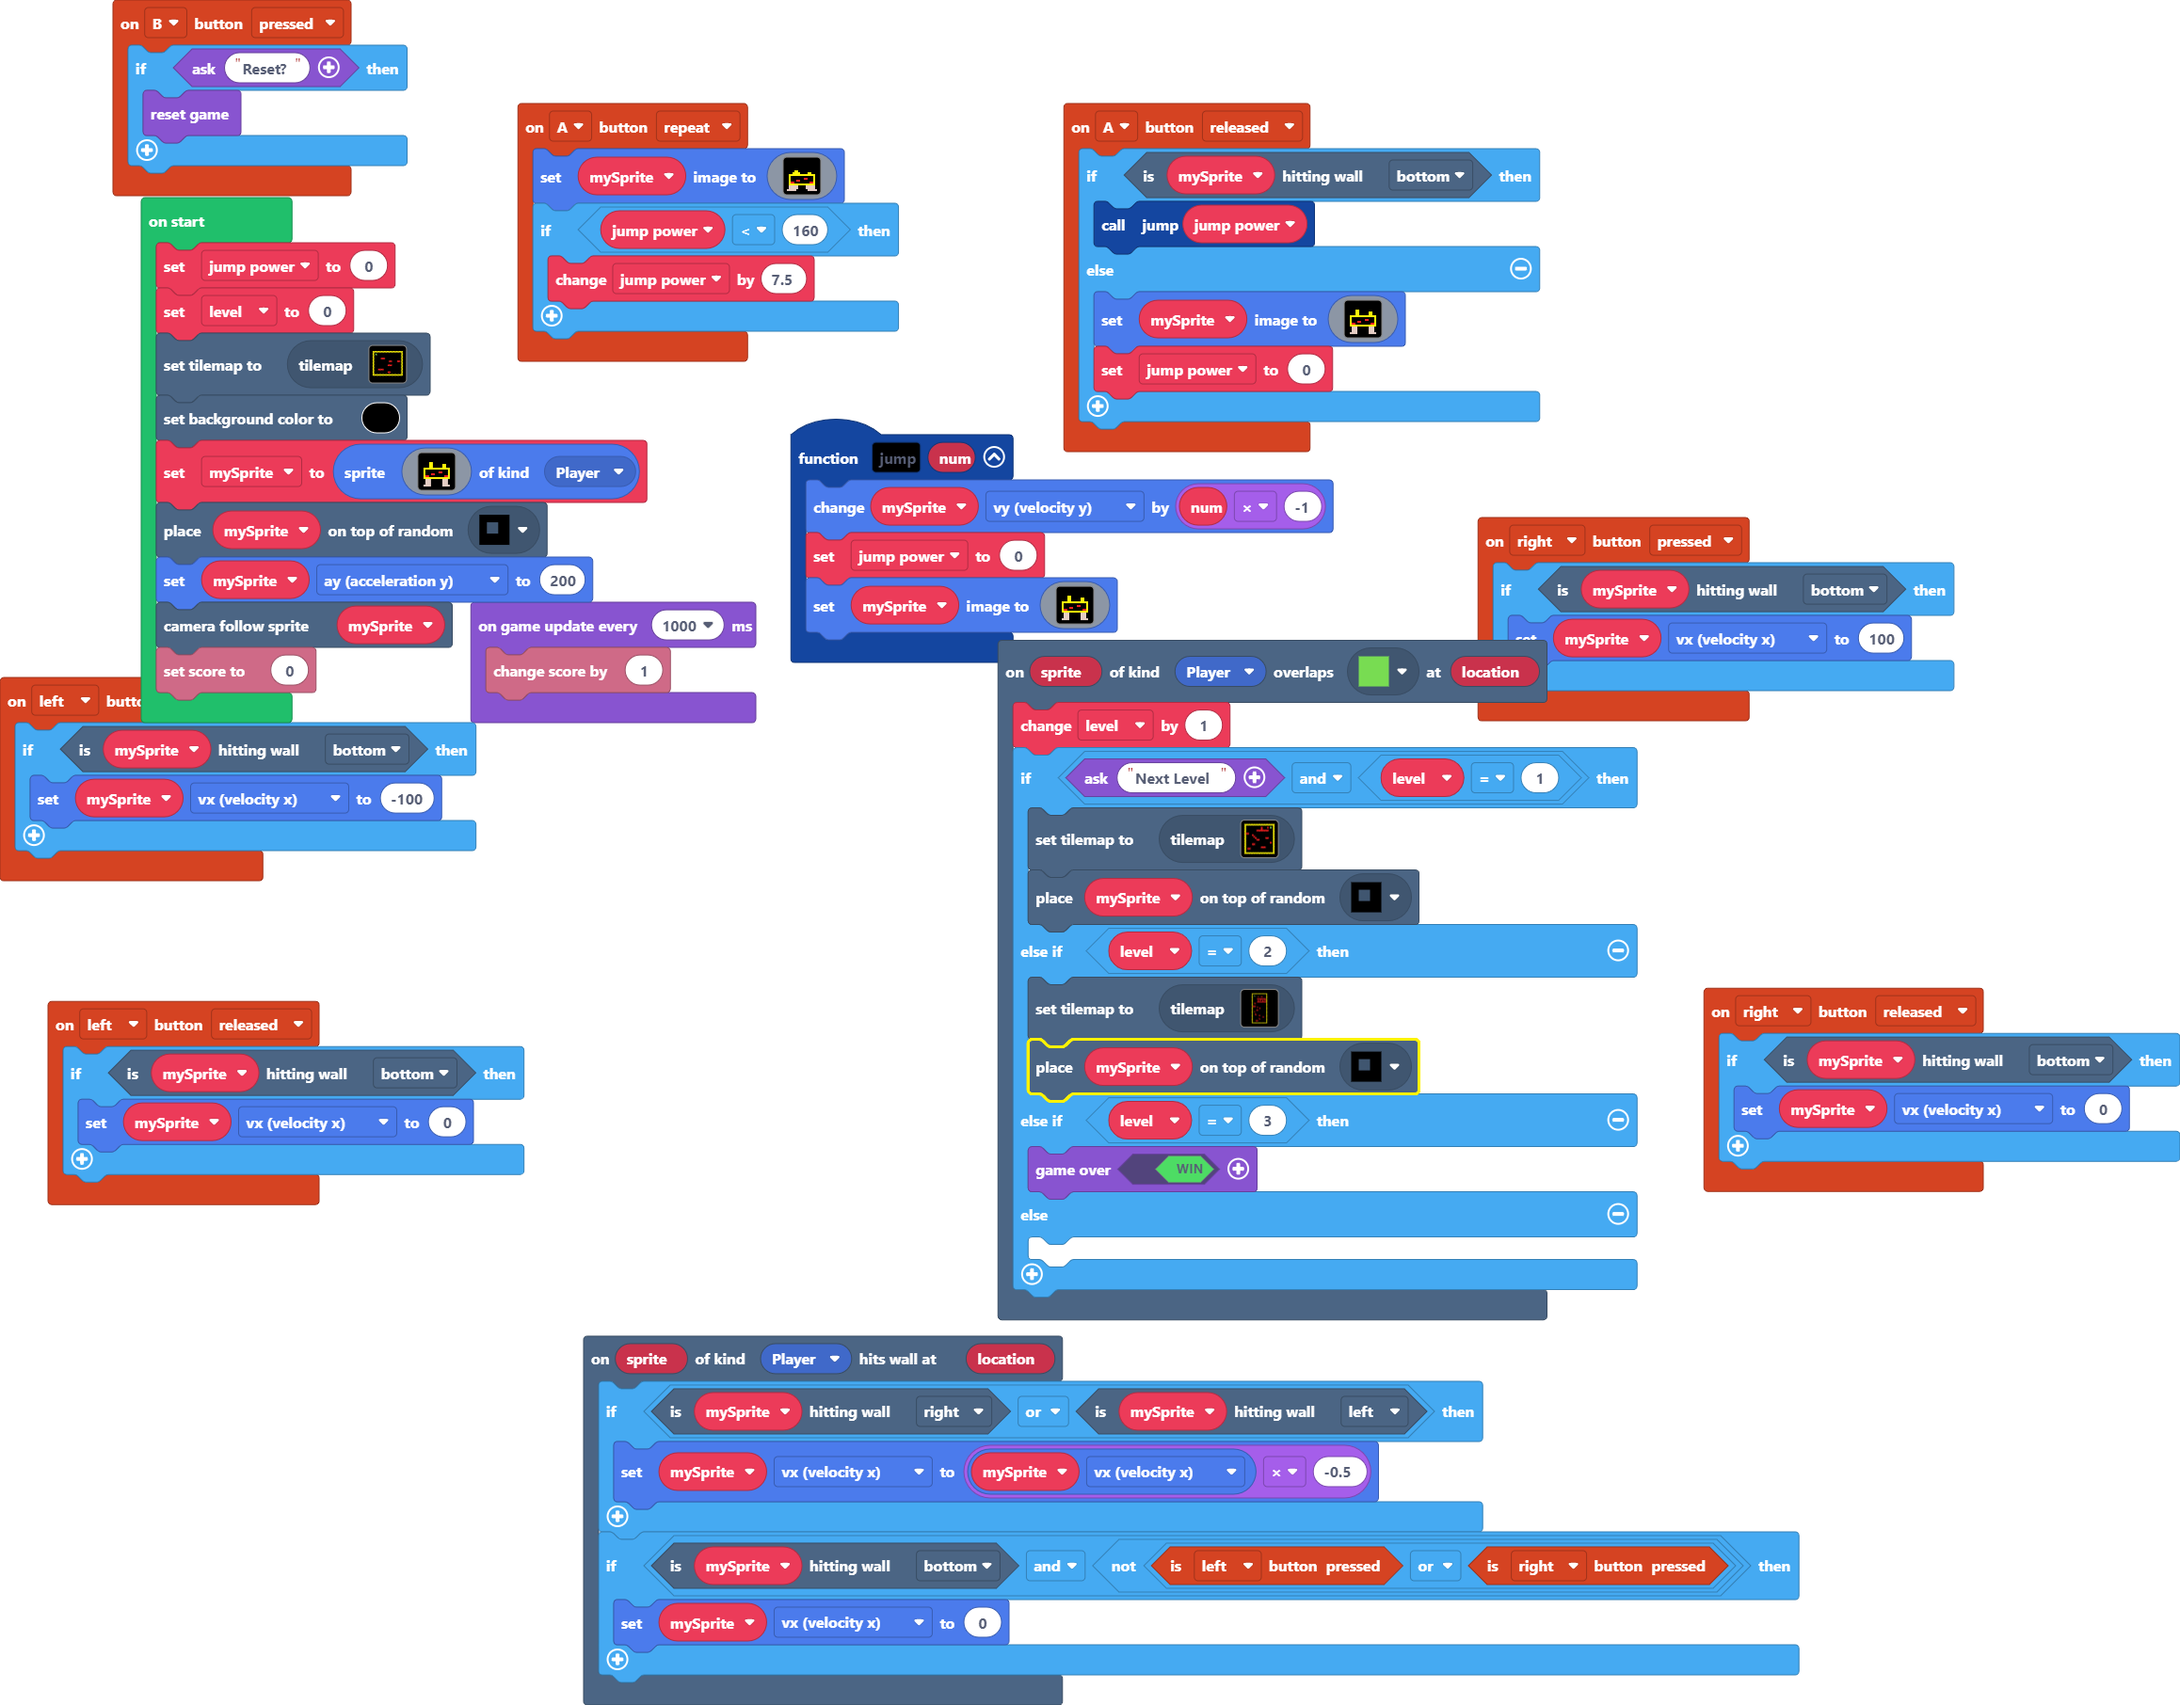
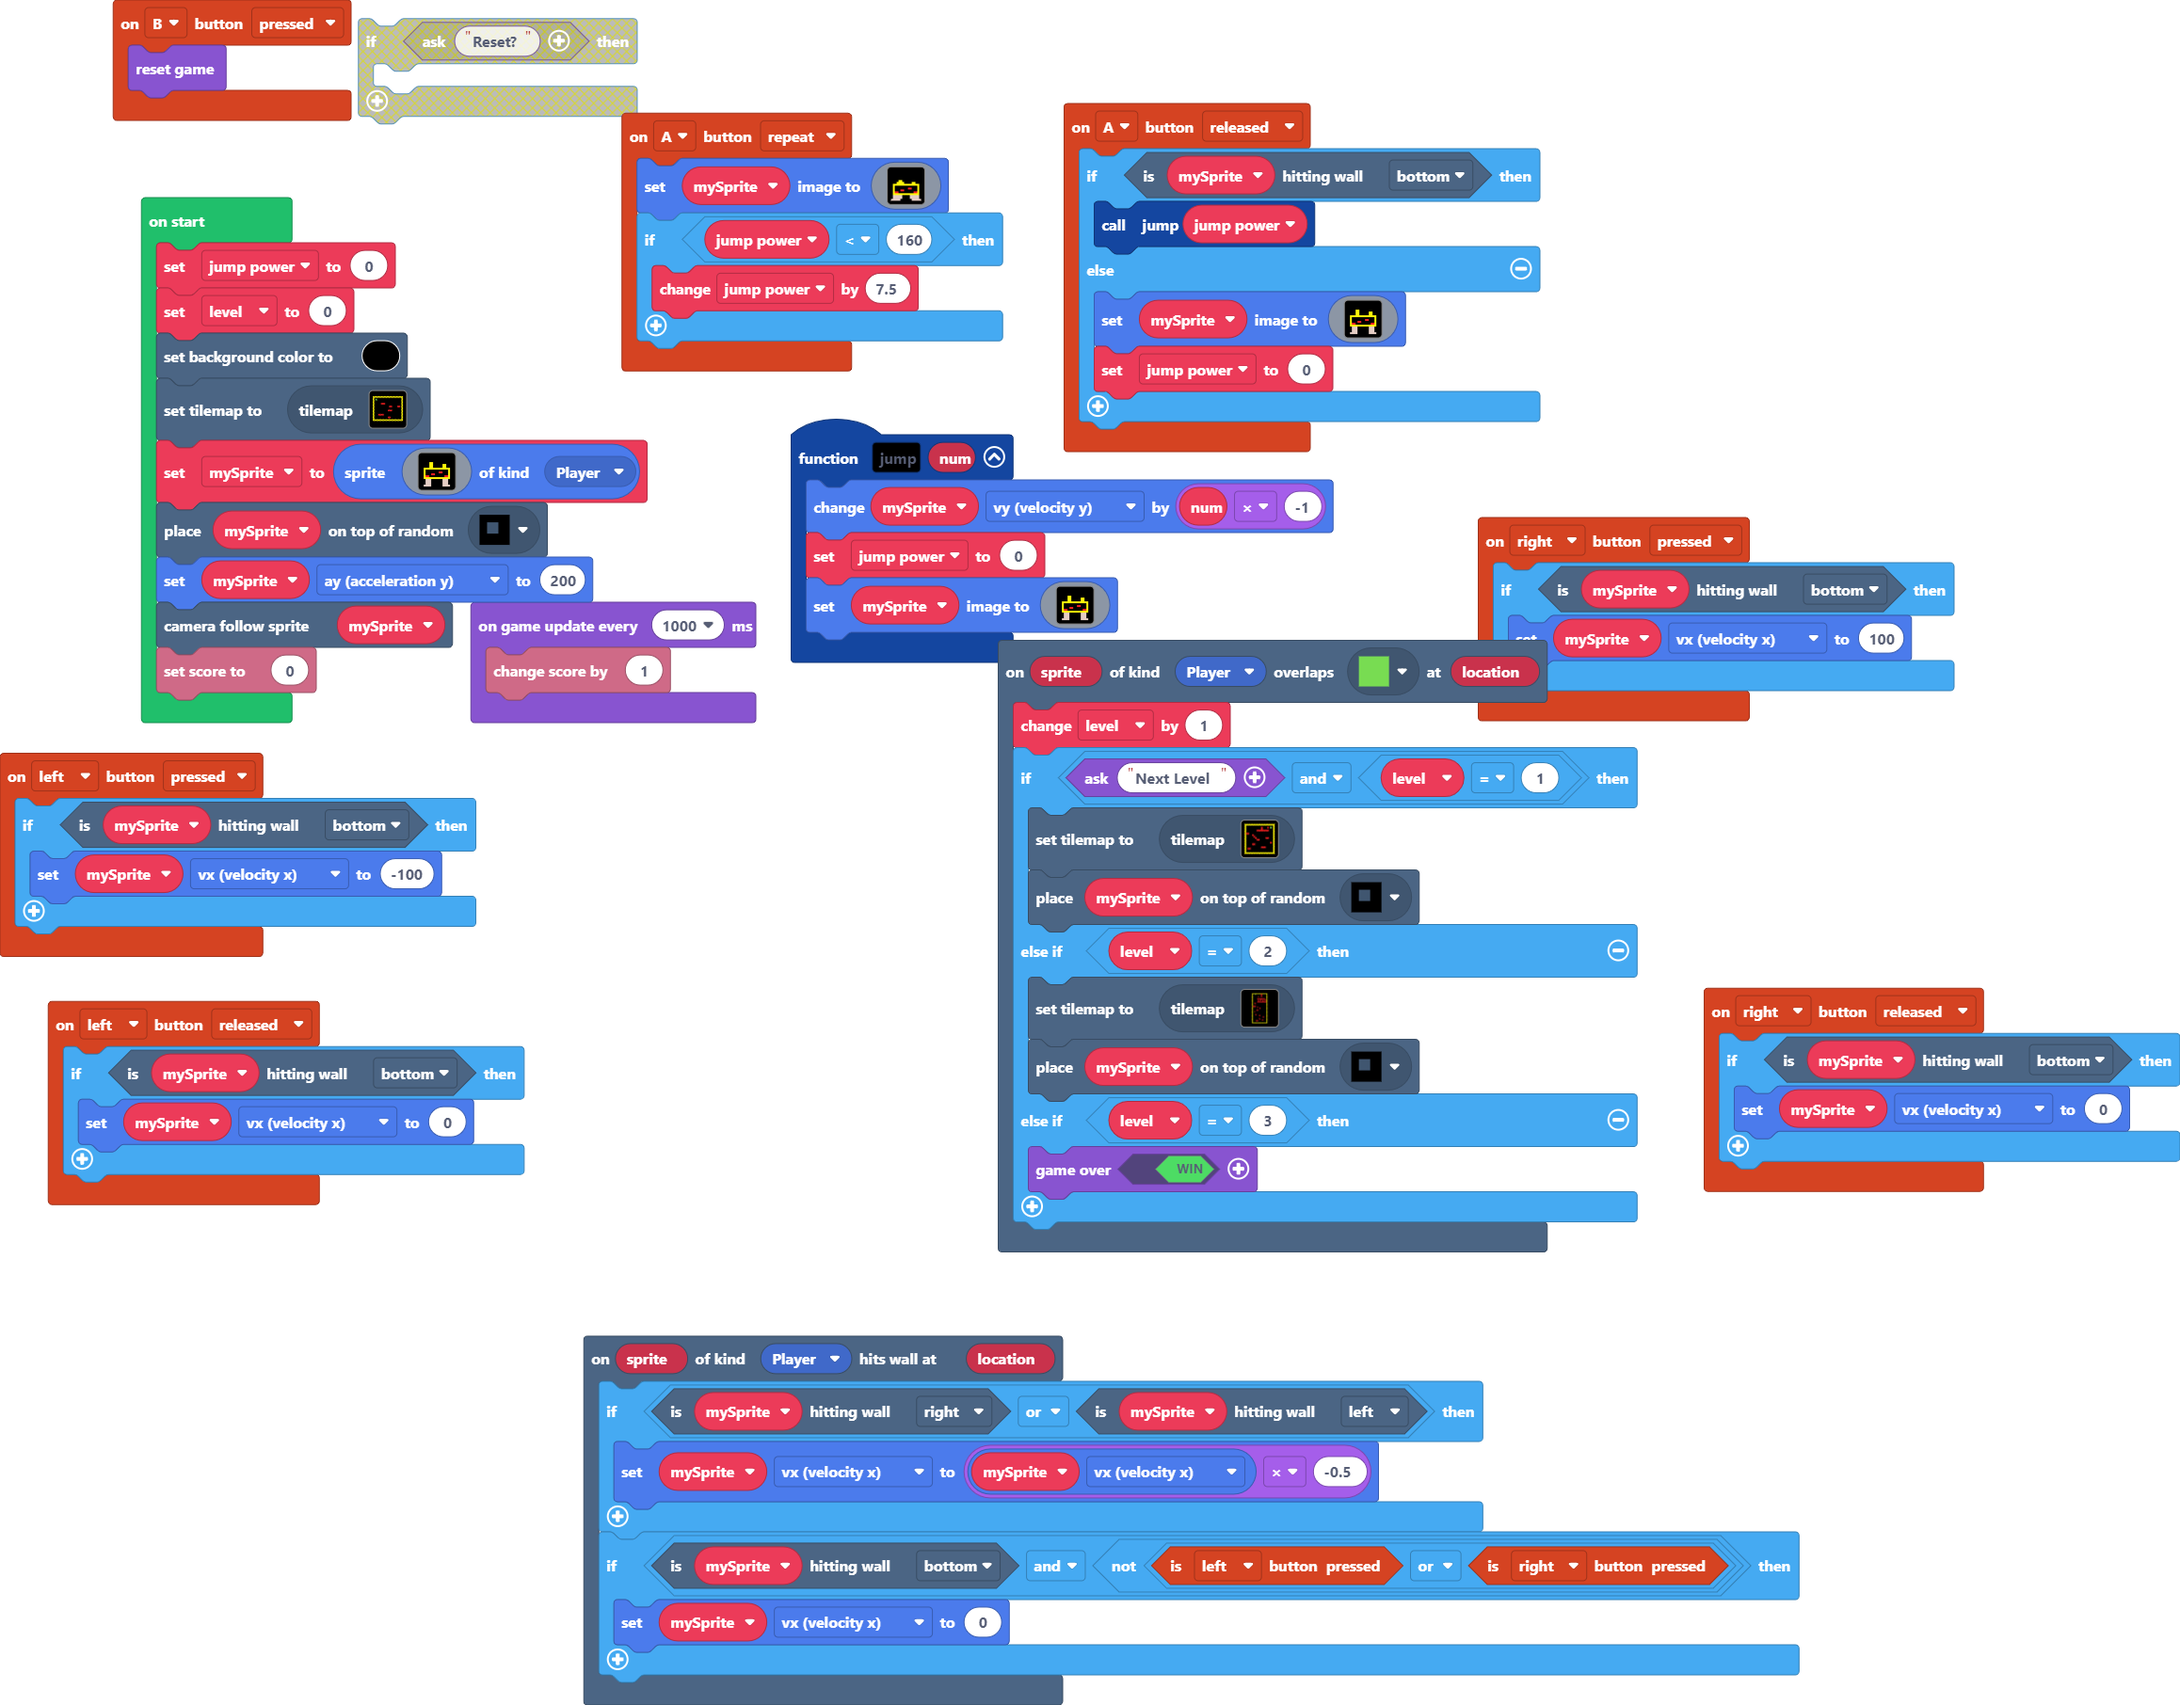
Update main.blocks, main.ts, tilemap.g.jres, tilemap.g.ts

diff --git a/tilemap.g.ts b/tilemap.g.ts
@@ -129,15 +129,15 @@ namespace myTiles {
 . . . . . . . . . . . . . . . . 
 `, [myTiles.transparency16], TileScale.Sixteen);
             case "level0":
[2 lines of base64/hex data omitted]
 22222222222222222222
 2..................2
 2..................2
 2..................2
-2.......2...22.....2
+2.......2...2......2
 2..................2
 2..................2
-2......22222222222.2
+2......2222222222..2
 2..........2.....2.2
 2.......2..2..2..2.2
 2.......2.....2....2
@@ -157,7 +157,7 @@ namespace myTiles {
 2..2...............2
 2..................2
 2..................2
-2...2..............2
+2..................2
 2...22.............2
 2........22........2
 2..................2
@@ -165,12 +165,12 @@ namespace myTiles {
 2..................2
 2........2.........2
 2.........2........2
-2..................2
+2............22....2
 2....222...........2
 2..................2
 2..................2
 22222222222222222222
-`, [myTiles.transparency16,myTiles.tile1,myTiles.tile2,myTiles.tile3,myTiles.tile4,myTiles.tile5,myTiles.tile6,myTiles.tile7,myTiles.tile8,myTiles.tile9,myTiles.tile10], TileScale.Sixteen);
+`, [myTiles.transparency16,myTiles.tile1,myTiles.tile2,myTiles.tile3,myTiles.tile4,myTiles.tile5,myTiles.tile6,myTiles.tile7,myTiles.tile8,myTiles.tile9,myTiles.tile10,myTiles.tile11], TileScale.Sixteen);
         }
         return null;
     })

diff --git a/main.ts b/main.ts
@@ -7,9 +7,7 @@ scene.onHitWall(SpriteKind.Player, function (sprite, location) {
     }
 })
 controller.B.onEvent(ControllerButtonEvent.Pressed, function () {
-    if (game.ask("Reset?")) {
-        game.reset()
-    }
+    game.reset()
 })
 scene.onOverlapTile(SpriteKind.Player, assets.tile`myTile4`, function (sprite, location) {
     level += 1
@@ -21,8 +19,6 @@ scene.onOverlapTile(SpriteKind.Player, assets.tile`myTile4`, function (sprite, l
         tiles.placeOnRandomTile(mySprite, assets.tile`spawn block`)
     } else if (level == 3) {
         game.over(true)
-    } else {
-    	
     }
 })
 controller.left.onEvent(ControllerButtonEvent.Pressed, function () {
@@ -120,8 +116,8 @@ let level = 0
 let jump_power = 0
 jump_power = 0
 level = 0
-tiles.setCurrentTilemap(tilemap`level3`)
 scene.setBackgroundColor(15)
+tiles.setCurrentTilemap(tilemap`level3`)
 mySprite = sprites.create(img`
     . . . . . . . . . . . . . . . . 
     . . . . . . . . . . . . . . . . 
